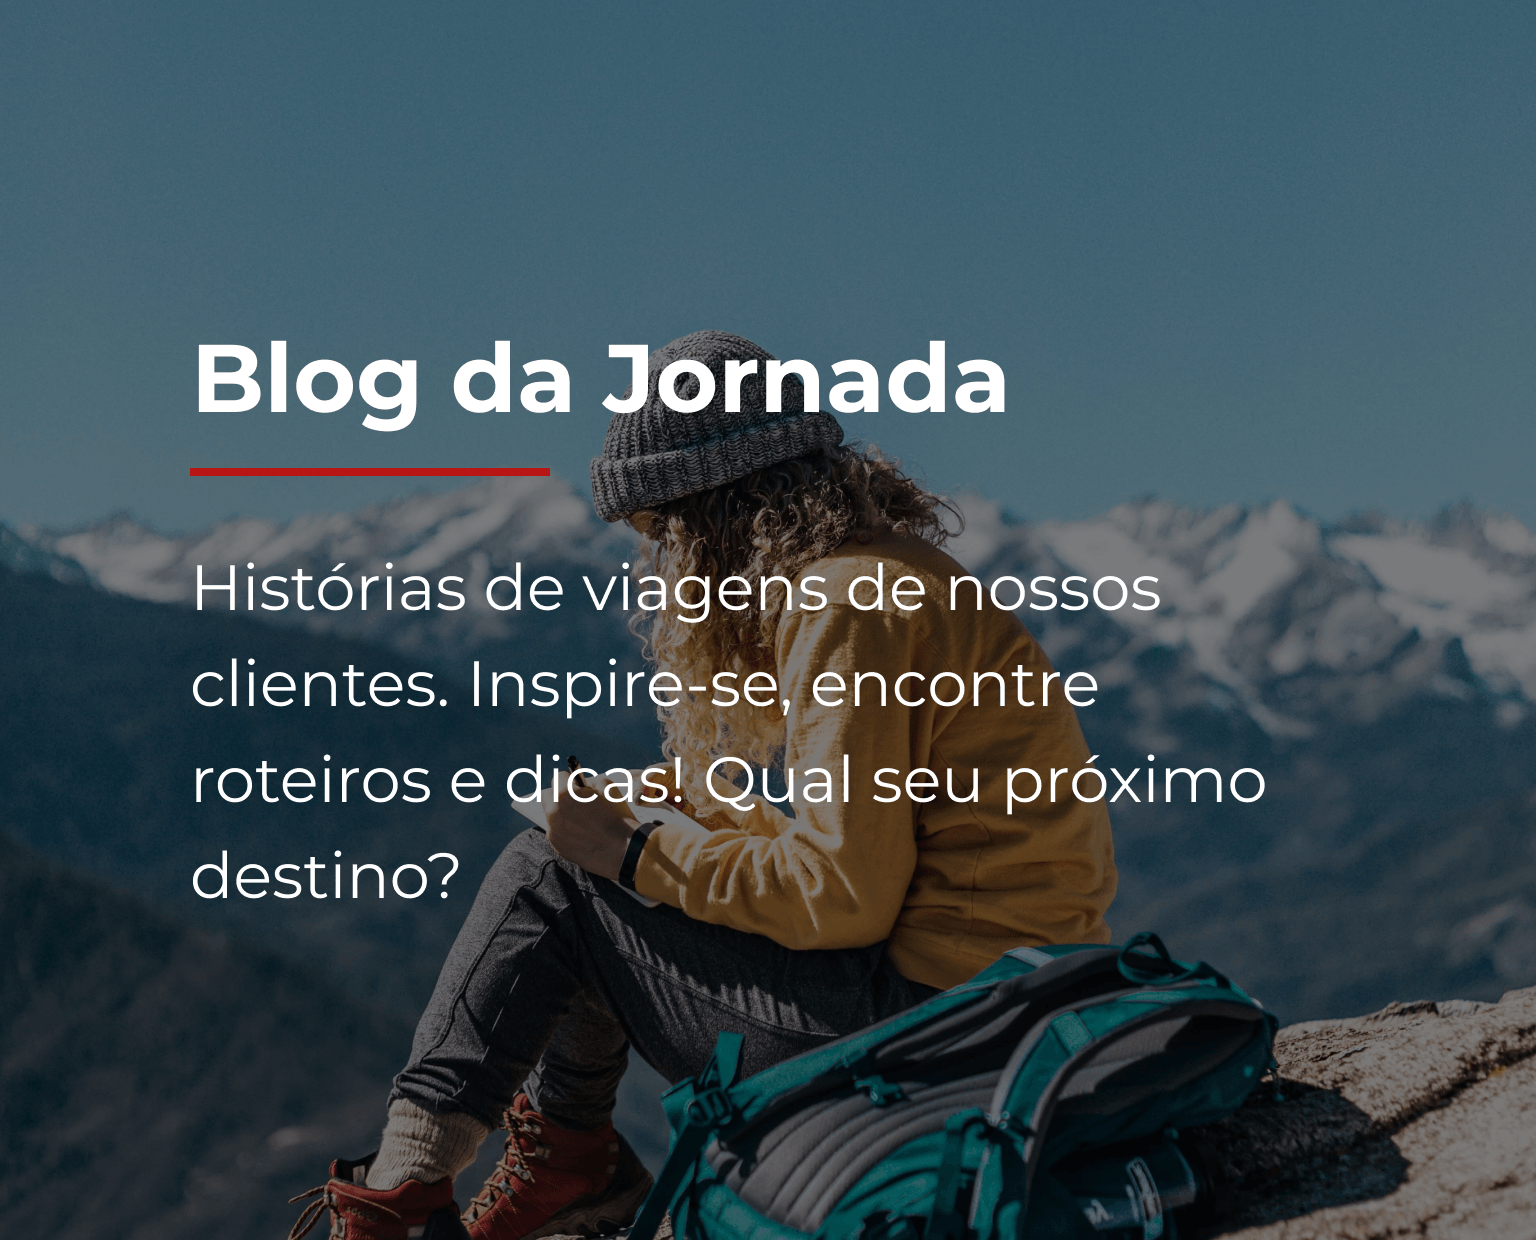
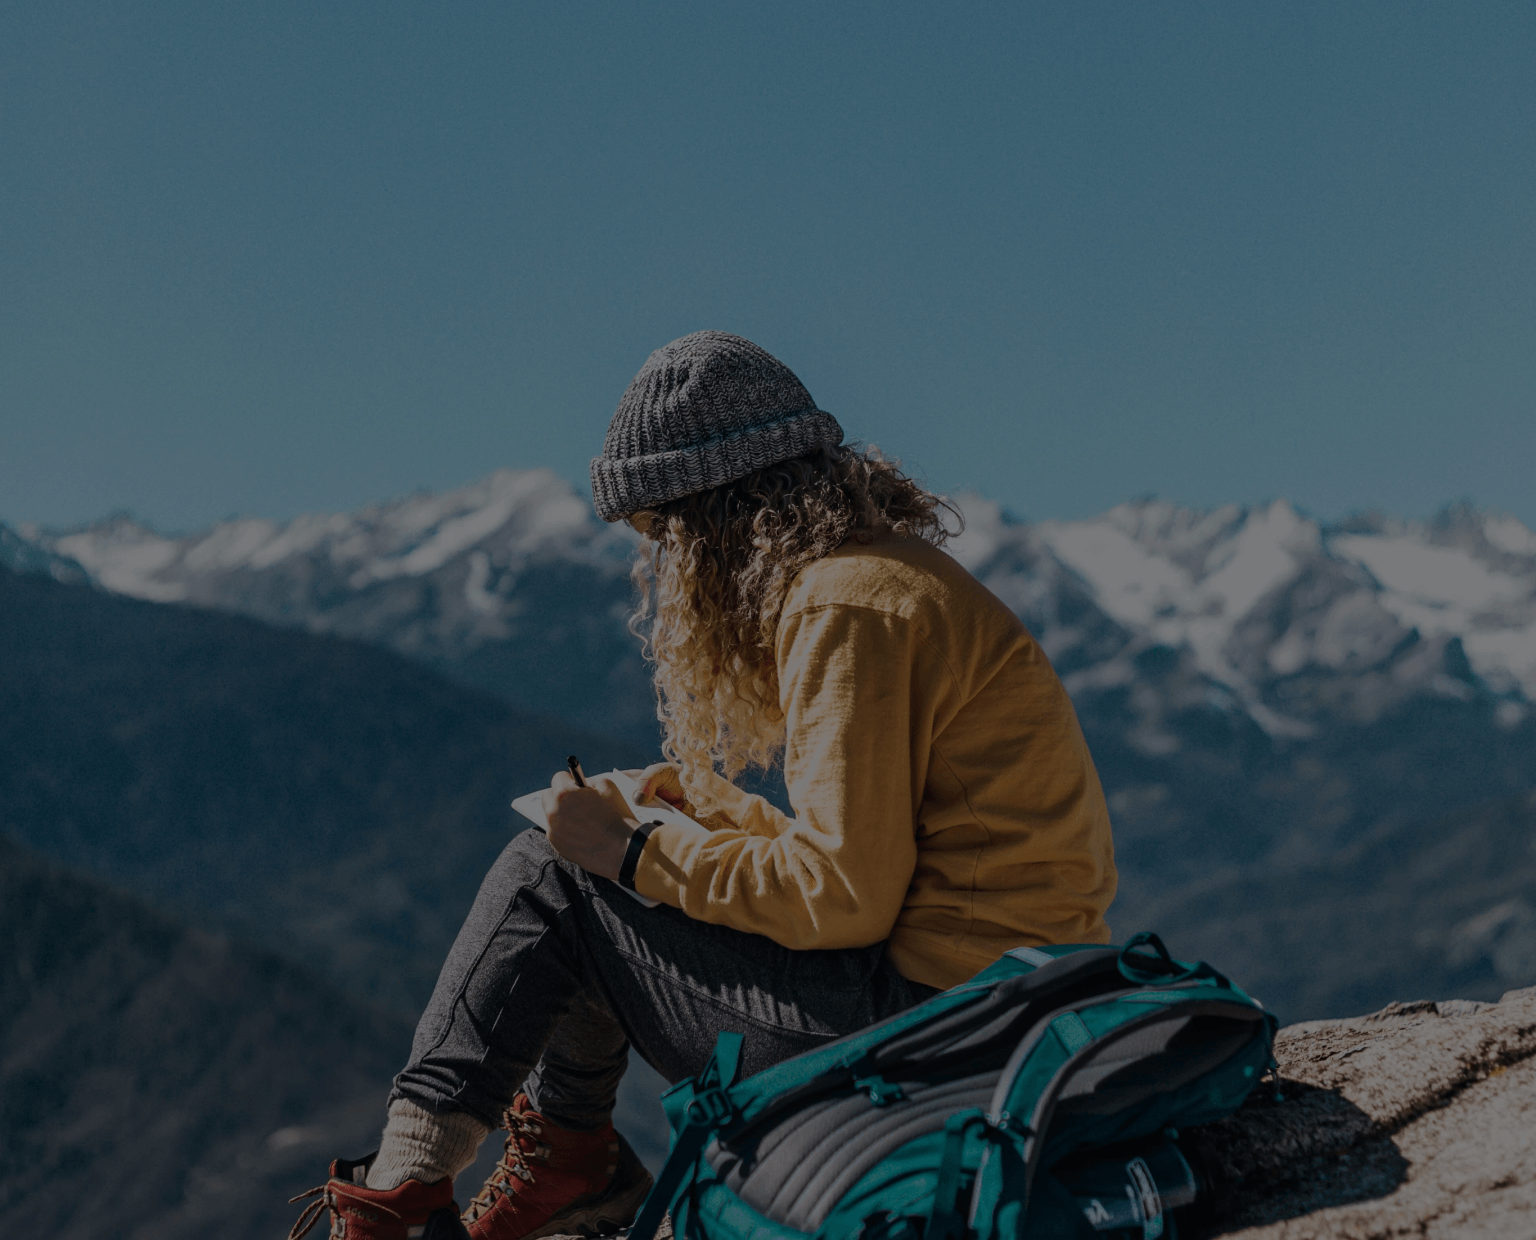
adiciona hero no mobile

diff --git a/blog.html b/blog.html
@@ -58,15 +58,15 @@
       </div>
     </header>
     <section class="hero-blog">
+      <section class="section-title">
+        <h1>Blog da Jornada</h1>
+        <hr />
+      </section>
       <section class="hero-content-blog">
-        <section class="section-title">
-          <h1>Blog da Jornada</h1>
-          <hr />
-        </section>
         <p class="text-content">
           Histórias de viagens de nossos clientes. Inspire-se, encontre roteiros
           e dicas! Qual seu próximo destino?
-        </p> 
+        </p>
       </section>
     </section>
   </body>

diff --git a/css/hero.css b/css/hero.css
@@ -93,6 +93,23 @@
     margin-top: 88px;
 }
 
+.hero-blog{
+    background-image: linear-gradient(rgba(0,0,0,0.3), rgba(0,0,0,0.3)), url(../img/blog/hero-blog-mobile.jpg);
+    background-size: cover;
+    width: 100%;
+    height: 460px;
+    background-position-y: -20px;
+    padding: 81px 24px;
+}
+
+.hero-content-blog, .section-title {
+    color:  var(--text-secondary-color);
+}
+
+.hero-blog .section-title{
+    font-size: 27px;
+} 
+
 @media screen and (min-width: 768px) {
    
    .hero-img{ 
